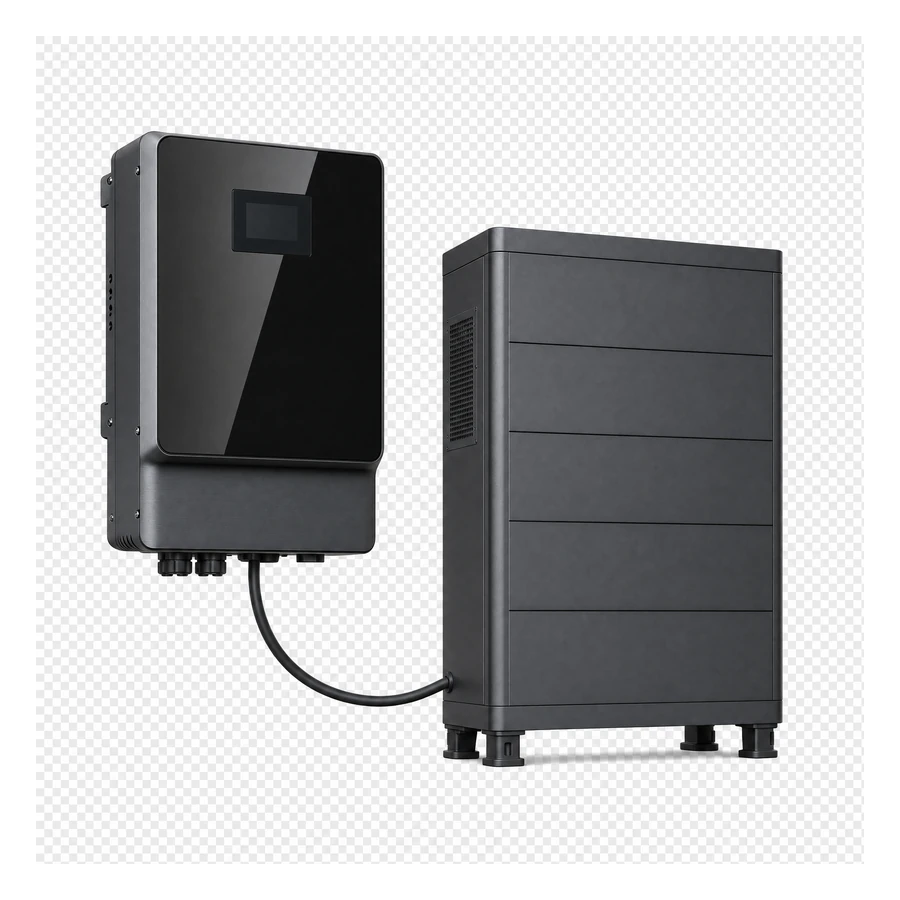
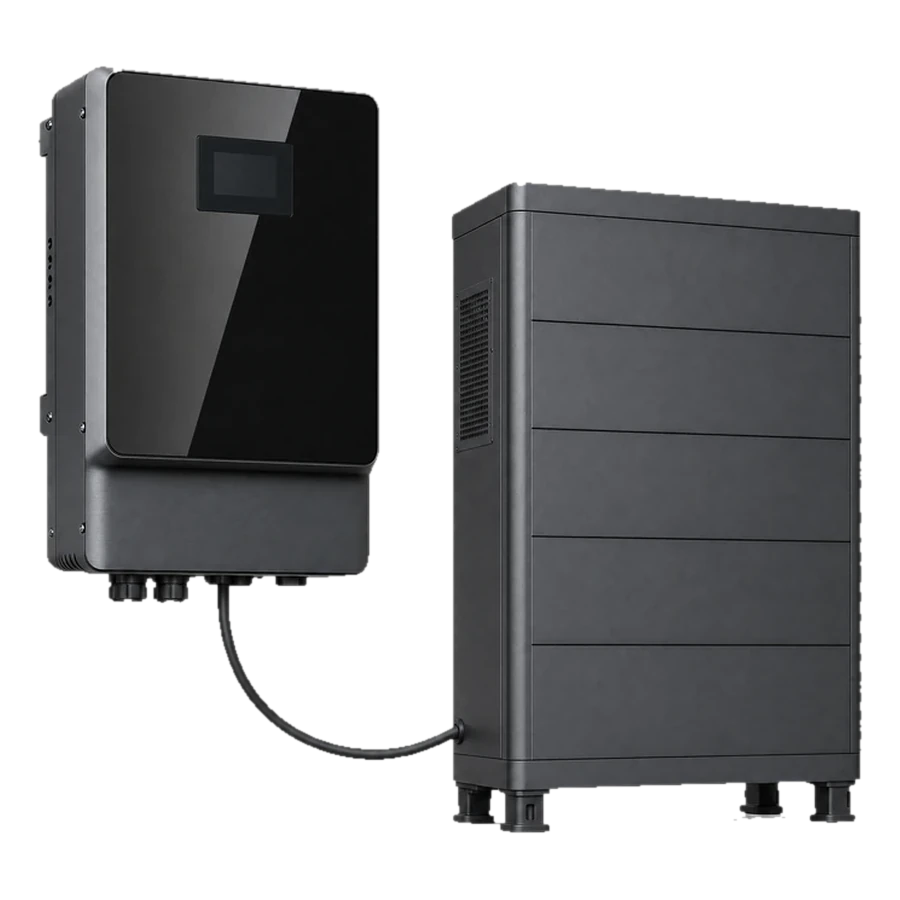
Комплекти живлення: прозорий фон на фото, як у решти товарів
Згенеровані знімки трьох комплектів мали «шахівку прозорості», намальовану
просто в пікселях, тож у каталозі кожен стояв у сірому квадраті. Шахівку
прибрано (scripts/strip_checker.py), кадрування — тим самим normalize().

Changed region(s): [[0.0311, 0.0622, 0.9644, 0.9333]]

diff --git a/scripts/strip_checker.py b/scripts/strip_checker.py
@@ -1,0 +1,62 @@
+#!/usr/bin/env python
+# -*- coding: utf-8 -*-
+"""Strip a checkerboard that an image generator painted where transparency
+should have been.
+
+The three built-to-order kit shots came back "transparent" as far as the file
+format goes — only a thin margin was clear — and inside it the grey-and-white
+checkerboard a viewer draws for transparency was baked into the pixels, so on
+the site each kit stood in a grey box while every other product floated on the
+blue stage. This takes the light, colourless pixels that connect to the edge
+(and any large light pocket the product encloses, such as inside a cable loop),
+drops the light half of the anti-aliased rim, then re-frames with photolib's
+normalize() like every other product photo.
+
+Run: python scripts/strip_checker.py <slug> [<slug> ...]
+  reads assets/img/products/<slug>/1.webp, writes 1.webp and thumb.webp back.
+  Check the result on magenta: python scripts/check_cutout.py <slug>
+"""
+import sys, os
+import numpy as np
+from PIL import Image, ImageFilter, ImageDraw
+sys.path.insert(0, os.path.dirname(os.path.abspath(__file__)))
+from photolib import normalize
+
+def clean(src):
+    im = Image.open(src).convert('RGBA')
+    a = np.array(im).astype(np.int16)
+    rgb, al = a[..., :3], a[..., 3]
+    lum = rgb.mean(-1); sat = rgb.max(-1) - rgb.min(-1)
+    bg = ((lum > 205) & (sat < 16)) | (al < 8)            # checker squares and the already-clear margin
+    m = Image.fromarray(np.where(bg, 255, 0).astype(np.uint8), 'L').copy()   # fromarray shares a read-only buffer: floodfill would write nowhere
+    ImageDraw.floodfill(m, (0, 0), 1, thresh=0)           # everything reachable from the outside
+    arr = np.array(m)
+    kill = arr == 1
+    # enclosed pockets of checker (inside a cable loop): big and light -> background too
+    val = 2
+    while True:
+        ys, xs = np.nonzero(arr == 255)
+        if not len(ys) or val > 254: break
+        ImageDraw.floodfill(m, (int(xs[0]), int(ys[0])), val, thresh=0)
+        arr = np.array(m); reg = arr == val
+        if reg.sum() >= 40 and lum[reg].mean() > 225: kill |= reg
+        val += 1
+    alpha = np.where(kill, 0, 255).astype(np.uint8)
+    # the anti-aliased rim is a blend of dark body and light checker: drop its light part
+    solid = Image.fromarray(alpha)
+    inner = np.array(solid.filter(ImageFilter.MinFilter(7))) > 0
+    rim = (alpha > 0) & ~inner
+    alpha[rim & (lum > 165) & (sat < 30)] = 0
+    alpha = np.array(Image.fromarray(alpha).filter(ImageFilter.MinFilter(3)).filter(ImageFilter.GaussianBlur(0.8)))
+    res = Image.fromarray(np.dstack([rgb.astype(np.uint8), alpha]), 'RGBA')
+    return res.crop(res.getbbox()), int(kill.sum())
+
+ROOT = os.path.dirname(os.path.dirname(os.path.abspath(__file__)))
+
+if __name__ == '__main__':
+    for slug in sys.argv[1:]:
+        d = os.path.join(ROOT, 'assets', 'img', 'products', slug)
+        cut, n = clean(os.path.join(d, '1.webp'))
+        normalize(cut, (900, 900)).save(os.path.join(d, '1.webp'), 'WEBP', quality=90, method=6)
+        normalize(cut, (400, 400)).save(os.path.join(d, 'thumb.webp'), 'WEBP', quality=90, method=6)
+        print(slug, cut.size, 'cleared', n)

diff --git a/scripts/install_kit_shots.py b/scripts/install_kit_shots.py
@@ -2,9 +2,10 @@
 # -*- coding: utf-8 -*-
 """Put generated bundle photographs into the catalogue.
 
-The shots arrive 2048x2048 with a transparent background already — the model
-cuts them out itself when the prompt asks for it — so there is nothing to
-remove, only to trim and centre. normalize() is the same one every other
+The shots arrive 2048x2048 and are meant to have a transparent background —
+but the first batch had the checkerboard painted into the pixels instead, so
+after installing, look at them on magenta and run scripts/strip_checker.py on
+any that are not really clear. normalize() is the same one every other
 product photo goes through, so a bundle sits in the grid at the same scale as
 a fridge.
 
